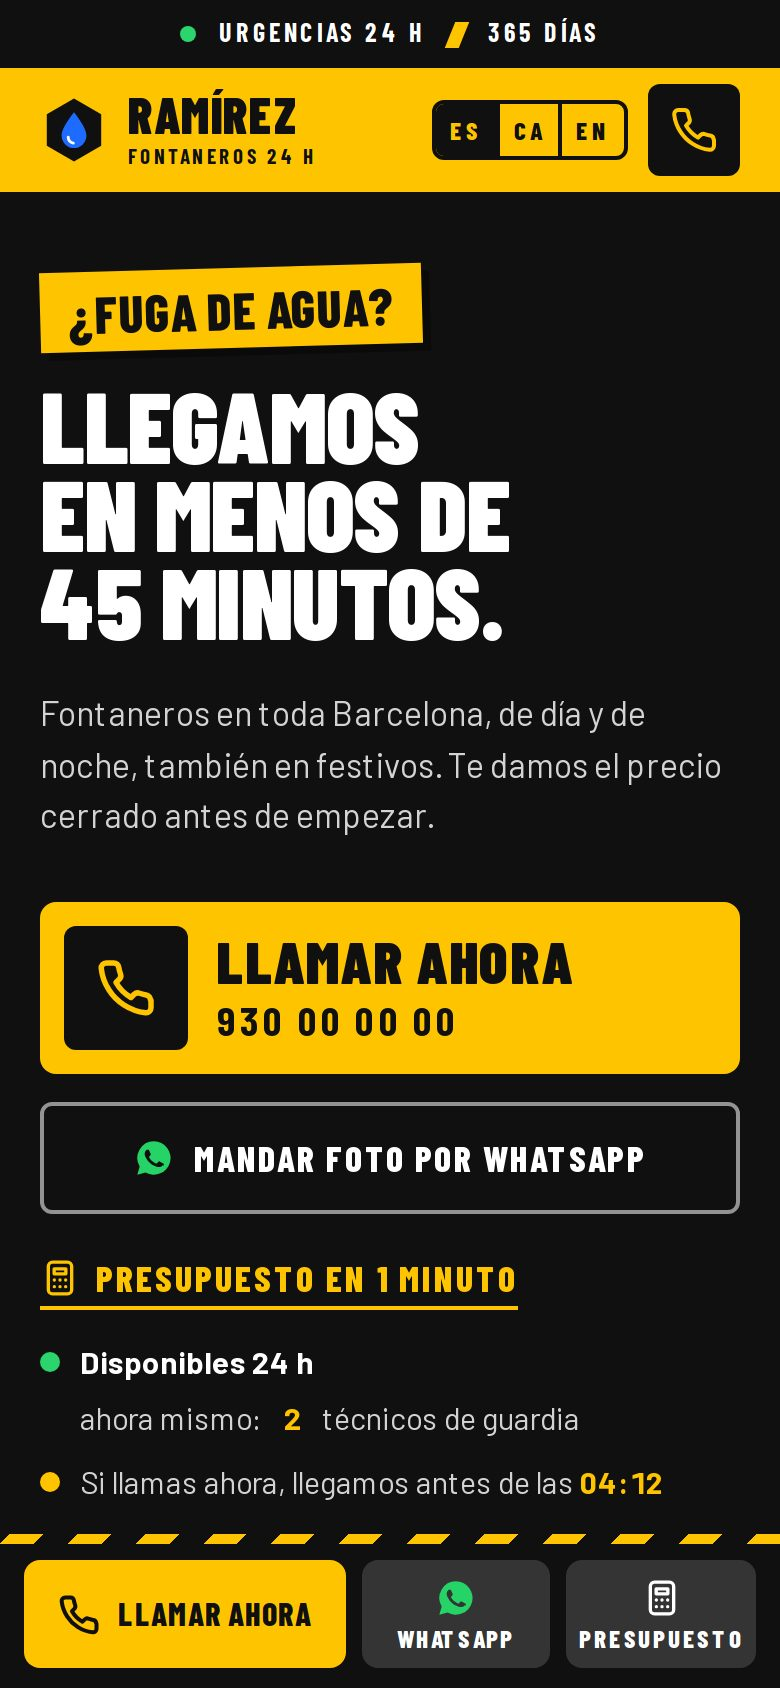
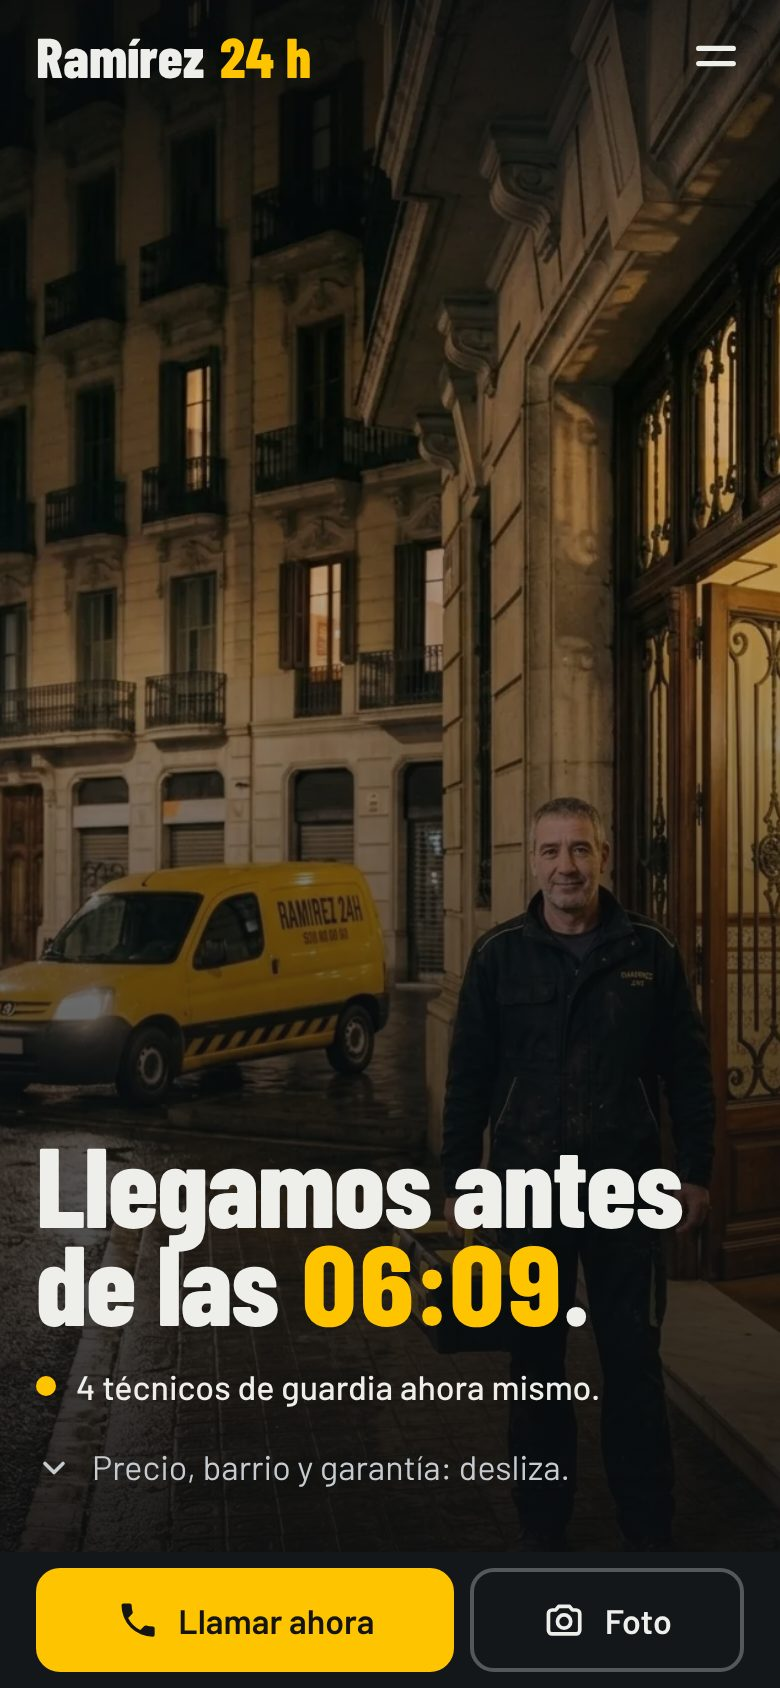
Ramírez 24 h: capturas, ficha nueva y modo captura (?shot)
La página acepta ?shot y ?shot=<pantalla> para las capturas del
portfolio (ya en el portal, sin movimiento y en castellano). Ficha de
la sección Local con las cuatro pantallas nuevas y shots.json al día.

Claude-Session: https://claude.ai/code/session_01DChTJnCiCW4hs7btUNApc9

diff --git a/frontend/public/demos/ramirez-24h/index.html b/frontend/public/demos/ramirez-24h/index.html
@@ -348,6 +348,7 @@ html.snap{scroll-snap-type:y mandatory}
 .toast{position:fixed;left:50%;bottom:calc(var(--bar) + 18px);z-index:90;transform:translate(-50%,20px);max-width:min(92vw,440px);padding:12px 16px;border-radius:12px;background:var(--texto);color:var(--negro);font-weight:600;opacity:0;pointer-events:none;transition:opacity .2s ease,transform .2s var(--ease-out)}
 .toast.on{opacity:1;transform:translate(-50%,0)}
 
+.shot .track{height:100svh}.shot .intro{display:none}.shot .veil{opacity:1}.shot .scrim.b{opacity:0}.shot .hint svg{animation:none}
 @media (prefers-reduced-motion:reduce){*,*::before,*::after{scroll-behavior:auto!important}.tind{transition:opacity .2s ease}.sheet,.sheet.on{transition:visibility 0s,opacity .2s ease}}
 </style>
 </head>
@@ -688,7 +689,10 @@ html.snap{scroll-snap-type:y mandatory}
 <script>
 (function(){'use strict';
 const $=s=>document.querySelector(s),$$=s=>[...document.querySelectorAll(s)];
-const RM=matchMedia('(prefers-reduced-motion: reduce)').matches;
+/* ?shot: captura limpia para el portfolio (sin movimiento, en castellano, ya en el portal); ?shot=<id> empieza en esa pantalla */
+const SHOT=location.search.match(/[?&]shot(?:=([\w-]*))?(?:&|$)/),SHOT_AT=SHOT&&SHOT[1]&&SHOT[1]!=='1'?SHOT[1]:'';
+if(SHOT)document.documentElement.classList.add('shot');
+const RM=matchMedia('(prefers-reduced-motion: reduce)').matches||!!SHOT;
 const HTML=document.documentElement,DEMO=HTML.hasAttribute('data-demo');
 const TEL=HTML.dataset.tel,TELT=HTML.dataset.telTxt,WA=HTML.dataset.wanum;
 const esc=s=>String(s).replace(/[&<>"]/g,c=>({'&':'&amp;','<':'&lt;','>':'&gt;','"':'&quot;'}[c]));
@@ -711,7 +715,7 @@ function applyLang(){
  langFns.forEach(f=>f())}
 function setLang(l){LANG=LANGS.includes(l)?l:'es';store.set('lang',LANG);applyLang()}
 document.addEventListener('click',e=>{const b=e.target.closest&&e.target.closest('[data-lang]');if(b){e.preventDefault();setLang(b.dataset.lang)}});
-{const q=(location.search.match(/[?&]lang=(es|ca|en)/)||[])[1],sv=store.get('lang'),nv=(navigator.language||'es').slice(0,2);LANG=q||sv||(nv==='ca'?'ca':'es')}
+{const q=(location.search.match(/[?&]lang=(es|ca|en)/)||[])[1],sv=store.get('lang'),nv=(navigator.language||'es').slice(0,2);LANG=q||(SHOT?'es':'')||sv||(nv==='ca'?'ca':'es')}
 
 /* ===== la hora de Barcelona lo decide todo: llegada, tarifa y precio ===== */
 const TZ='Europe/Madrid',SUR=.4;
@@ -842,7 +846,7 @@ let cmpHint=false;
 /* ===== entrada: el vídeo avanza con un gesto y se para en el portal ===== */
 const v=$('#v'),intro=$('#intro'),index=$('#index'),scrimB=$('#scrimB');let dur=5,target=0,cur=0,ready=false,auto=0,autoT=0,preTw=null;
 const wide=matchMedia('(min-aspect-ratio:1/1)');let ori='';
-function setOri(){const o=wide.matches?'h':'v';if(o===ori)return;if(auto||preTw)llega();ori=o;v.poster=`assets/entrada-${o}-poster.jpg`;v.src=`assets/entrada-${o}.mp4`;v.load()}
+function setOri(){const o=wide.matches?'h':'v';if(o===ori)return;if(auto||preTw)llega();ori=o;if(SHOT){v.poster=`assets/img/fin-${o}.webp`;return}v.poster=`assets/entrada-${o}-poster.jpg`;v.src=`assets/entrada-${o}.mp4`;v.load()}
 const vt=()=>Math.min(1,Math.max(0,cur))*(dur-.05);
 v.addEventListener('loadedmetadata',()=>{dur=v.duration||dur;v.currentTime=vt()});
 wide.addEventListener('change',setOri);setOri();
@@ -859,7 +863,7 @@ let gliding=false,holdUntil=0,inTrack=true;
 function onScroll(){target=prog();if(Math.abs(target-cur)>.4)cur=target;
  const tr=scrollY<tmax()-4;if(inTrack&&!tr&&!gliding)holdUntil=performance.now()+1100;inTrack=tr;
  if(!gliding)HTML.classList.toggle('snap',scrollY>=tmax()-4);if(ready&&target<.9)leave();spy();pila()}
-addEventListener('scroll',onScroll,{passive:true});
+if(!SHOT)addEventListener('scroll',onScroll,{passive:true});
 function arrive(){if(ready)return;ready=true;document.body.classList.add('ready');index.removeAttribute('aria-hidden');index.inert=false;
  if(!RM){gsap.fromTo('#hola',{y:46,opacity:0},{y:0,opacity:1,duration:1,ease:'expo.out',delay:.12});
   gsap.fromTo('#index .guardia,#index .acts,#index .hint',{y:24,opacity:0},{y:0,opacity:1,stagger:.07,duration:.7,ease:'power3.out',delay:.45})}}
@@ -876,7 +880,7 @@ function salir(){if(gliding||auto||scrollY<4)return;glide(0,1.5)}
 const SECS=['averias','cuesta','barrio','trabajos','garantia','mientras','fin'];
 const topOf=el=>{let y=0;for(let e=el;e;e=e.offsetParent)y+=e.offsetTop;return y};
 let PILA=null,pY=-1,pH=0;
-function pila(){if(!PILA){PILA=[$('.stage'),...SECS.map(id=>document.getElementById(id))];
+function pila(){if(SHOT)return;if(!PILA){PILA=[$('.stage'),...SECS.map(id=>document.getElementById(id))];
   PILA.forEach((el,i)=>{if(i<PILA.length-1){const d=document.createElement('i');d.className='pila-dim';d.setAttribute('aria-hidden','true');el.appendChild(d);el._dim=d}
    if(i){const s=document.createElement('i');s.className='pila-sombra';s.setAttribute('aria-hidden','true');el.appendChild(s)}})}
  const y=scrollY,vh=innerHeight;if(y===pY&&vh===pH)return;pY=y;pH=vh;
@@ -900,8 +904,8 @@ function onWheelDy(dy,ev){if(ev)ev.preventDefault();clearTimeout(wQ);wQ=setTimeo
  if(wLock||gliding||auto)return;if(performance.now()<holdUntil){wAcc=0;return}
  const entrada=scrollY<tmax()-4||(scrollY<=tmax()+4&&dy<0);wAcc+=dy;if(Math.abs(wAcc)<(entrada?12:30))return;
  const d=Math.sign(wAcc);wAcc=0;wLock=true;if(!entrada)page(d);else if(d>0)entrar();else salir()}
-addEventListener('wheel',e=>{if(blocked()||Math.abs(e.deltaX)>Math.abs(e.deltaY))return;onWheelDy(e.deltaY,e)},{passive:false});
-addEventListener('keydown',e=>{if(e.key==='Escape'){closeAll();return}const ae=document.activeElement||document.body;if(blocked()||/INPUT|TEXTAREA|SELECT/.test(ae.tagName))return;const k=e.key;
+addEventListener('wheel',e=>{if(SHOT||blocked()||Math.abs(e.deltaX)>Math.abs(e.deltaY))return;onWheelDy(e.deltaY,e)},{passive:false});
+addEventListener('keydown',e=>{if(e.key==='Escape'){closeAll();return}const ae=document.activeElement||document.body;if(SHOT||blocked()||/INPUT|TEXTAREA|SELECT/.test(ae.tagName))return;const k=e.key;
  if(e.repeat&&/Arrow|Page| /.test(k)){e.preventDefault();return}
  if((k==='ArrowLeft'||k==='ArrowRight')&&curSec==='averias'&&(ae===document.body||ae===HTML||ae.closest('#averias'))){e.preventDefault();irAv(avIdx()+(k==='ArrowRight'?1:-1),k==='ArrowRight'?1:-1);return}
  if(k===' '&&ae!==document.body&&ae!==HTML)return;
@@ -910,10 +914,10 @@ addEventListener('keydown',e=>{if(e.key==='Escape'){closeAll();return}const ae=d
  if(!gliding)page(d)});
 let ts=null;
 addEventListener('touchstart',e=>{if(blocked())return;const q=e.touches[0];ts={x:q.clientX,y:q.clientY}},{passive:true});
-addEventListener('touchmove',e=>{if(!ts||blocked())return;const q=e.touches[0],dx=q.clientX-ts.x,dy=q.clientY-ts.y;
+addEventListener('touchmove',e=>{if(SHOT||!ts||blocked())return;const q=e.touches[0],dx=q.clientX-ts.x,dy=q.clientY-ts.y;
  if(dy>0&&scrollY<=0)return;if(e.target.closest&&e.target.closest('.chips')&&Math.abs(dx)>Math.abs(dy))return;
  if(Math.abs(dy)>Math.abs(dx)&&e.cancelable)e.preventDefault()},{passive:false});
-addEventListener('touchend',e=>{if(!ts)return;const q=e.changedTouches[0],dx=q.clientX-ts.x,dy=q.clientY-ts.y;ts=null;
+addEventListener('touchend',e=>{if(SHOT||!ts)return;const q=e.changedTouches[0],dx=q.clientX-ts.x,dy=q.clientY-ts.y;ts=null;
  if(blocked()||gliding||auto||Math.abs(dy)<40||Math.abs(dy)<Math.abs(dx)*1.2)return;
  if(scrollY<tmax()-4||(dy>0&&scrollY<=tmax()+4)){if(dy<0)entrar();else salir();return}
  page(dy<0?1:-1)},{passive:true});
@@ -971,13 +975,15 @@ if(!RM&&'IntersectionObserver'in window){
 else HEADS.forEach(s=>partir($(s)));
 
 /* llegar con enlace (#cuesta, #barrio, #garantia...) */
-(function(){const h=location.hash.slice(1);if(!h)return;history.replaceState(null,'',location.pathname+location.search);if(!SECS.includes(h)&&h!=='dentro')return;
+(function(){const h=location.hash.slice(1);if(!h||SHOT)return;history.replaceState(null,'',location.pathname+location.search);if(!SECS.includes(h)&&h!=='dentro')return;
  v.addEventListener('loadedmetadata',()=>{v.currentTime=v.duration-.05},{once:true});scrollTo(0,tmax());target=cur=1;arrive();
  if(h!=='dentro')setTimeout(()=>{scrollTo(0,yOf(h));onScroll()},120)})();
 
 applyLang();langFns.push(pintaVivo,pintaTr);pintaVivo();pintaTr();
 setInterval(pintaVivo,20000);document.addEventListener('visibilitychange',()=>{if(!document.hidden)pintaVivo()});
-requestAnimationFrame(tick);onScroll();
+if(SHOT){document.body.classList.add('ready');index.removeAttribute('aria-hidden');index.inert=false;document.body.dataset.hdr=SHOT_AT||'track';
+ if(SHOT_AT&&SECS.includes(SHOT_AT)){$('#track').style.display='none';for(const id of SECS){if(id===SHOT_AT)break;document.getElementById(id).style.display='none'}}scrollTo(0,0)}
+else{requestAnimationFrame(tick);onScroll()}
 })();
 </script>
 </body>

diff --git a/frontend/src/data/mock.js b/frontend/src/data/mock.js
@@ -170,13 +170,13 @@ export const workCards = {
   },
   "ramirez-24h": {
     typeEn: "Plumber website · Emergencies & quotes",
-    short: "A 24-hour emergency plumber in Barcelona: call button always at hand, clear rates, arrival times by area and a 1-minute guide quote sent by WhatsApp with a photo.",
-    route: ["Problem", "Urgency", "Price", "Call"],
+    short: "A 24-hour emergency plumber in Barcelona: the van pulls up at your door and tells you when it would arrive if you called now. One problem at a time with its price, the job sheet, your area in minutes and the call button always at hand.",
+    route: ["Van", "Problem", "Price", "Call"],
     facts: [
       ["Type", "Website"],
       ["Languages", "ES · CA · EN"],
       ["Year", "2026"],
-      ["Key feature", "1-minute quote"],
+      ["Key feature", "Live arrival time"],
     ],
   },
   "estudio-lua": {
@@ -459,13 +459,13 @@ export const projects = [
   {
     id: "ramirez-24h", category: "local", title: "Ramírez Fontaneros", kicker: "Urgencias de fontanería en Barcelona, las 24 horas", year: "2026",
     type: "Web de fontanería · Urgencias y presupuestos", status: "Online", statusTone: "live", access: "public",
-    ...demoWeb("ramirez-24h", [["presupuesto", "Presupuesto en 1 minuto"], ["tarifas", "Tarifas claras"]]),
+    ...demoWeb("ramirez-24h", [["averias", "Una avería cada vez"], ["cuesta", "El parte de trabajo"], ["barrio", "Tu barrio, en minutos"], ["garantia", "La garantía, firmada"]]),
     accent: "#FFC400", accentSoft: "#101010",
     demo: true,
-    description: "Proyecto demo · Web para un fontanero de urgencias en Barcelona: llamar siempre a mano, tarifas claras, tiempos de llegada por barrio y un presupuesto orientativo en 1 minuto que se manda por WhatsApp con foto.",
-    longDescription: "Este es un proyecto demo: la empresa no existe, pero el presupuestador funciona. La web de Ramírez Fontaneros está hecha como su furgoneta: amarillo de seguridad, negro y rayas de aviso, con una tipografía condensada que se lee de un vistazo en el móvil. Primero lo urgente: el botón de llamar siempre visible, lo que tardan en llegar a cada barrio y lo que da confianza antes de llamar (empresa autorizada, precio cerrado, garantía por escrito). Para lo que no corre prisa, el cliente elige qué le pasa y para cuándo, ve un precio orientativo con su desglose y lo manda por WhatsApp con una foto. Incluye un antes y después de un trabajo.",
-    highlights: ["Presupuesto orientativo en 1 minuto, con desglose y recargo de urgencia", "Botón de llamar siempre visible en el móvil", "Tarifas transparentes y tiempos de llegada por barrio", "Antes y después con deslizador"],
-    stack: ["HTML", "CSS", "JavaScript"], tags: ["Oficios", "Urgencias", "Presupuestos"],
+    description: "Proyecto demo · Web para un fontanero de urgencias en Barcelona: la furgoneta llega a tu portal y te dice a qué hora llegaría si llamas ahora. Una avería cada vez con su precio, el parte de trabajo, tu barrio en minutos y llamar siempre a mano.",
+    longDescription: "Este es un proyecto demo: la empresa no existe, pero todo funciona. Está hecha con el mismo motor que Molta y pensada para quien tiene agua en el suelo y el móvil en la mano: un gesto pasa una pantalla y llamar está siempre donde llega el pulgar. Con el primer gesto, la furgoneta amarilla cruza la calle y frena en tu portal; al pararse aparece, enorme y en vivo, la hora a la que llegaríamos si llamas ahora. Después, ocho pantallas de una idea cada una: qué te pasa (una avería cada vez, con su precio y el recargo de noche ya calculado), el parte de trabajo con las tres cifras, el mapa de distritos con los minutos hasta tu casa, un antes y después, la tarjeta de garantía firmada por Jordi Ramírez y qué hacer mientras llegamos. Todo se calcula solo con la hora de Barcelona y está en castellano, catalán e inglés."
+    highlights: ["La hora de llegada en vivo, con la hora de Barcelona", "Una avería cada vez, con su precio y el recargo de noche ya calculado", "Mapa de distritos y código postal: minutos hasta tu casa", "Aviso por WhatsApp ya escrito: «Fuga en Les Corts, ahora»"],
+    stack: ["HTML", "CSS", "JavaScript", "GSAP"], tags: ["Oficios", "Urgencias", "Vídeo"],
     metrics: [{ label: "Llegada", value: "< 45′" }, { label: "Servicio", value: "24 h" }, { label: "Garantía", value: "1 año" }],
   },
   {
